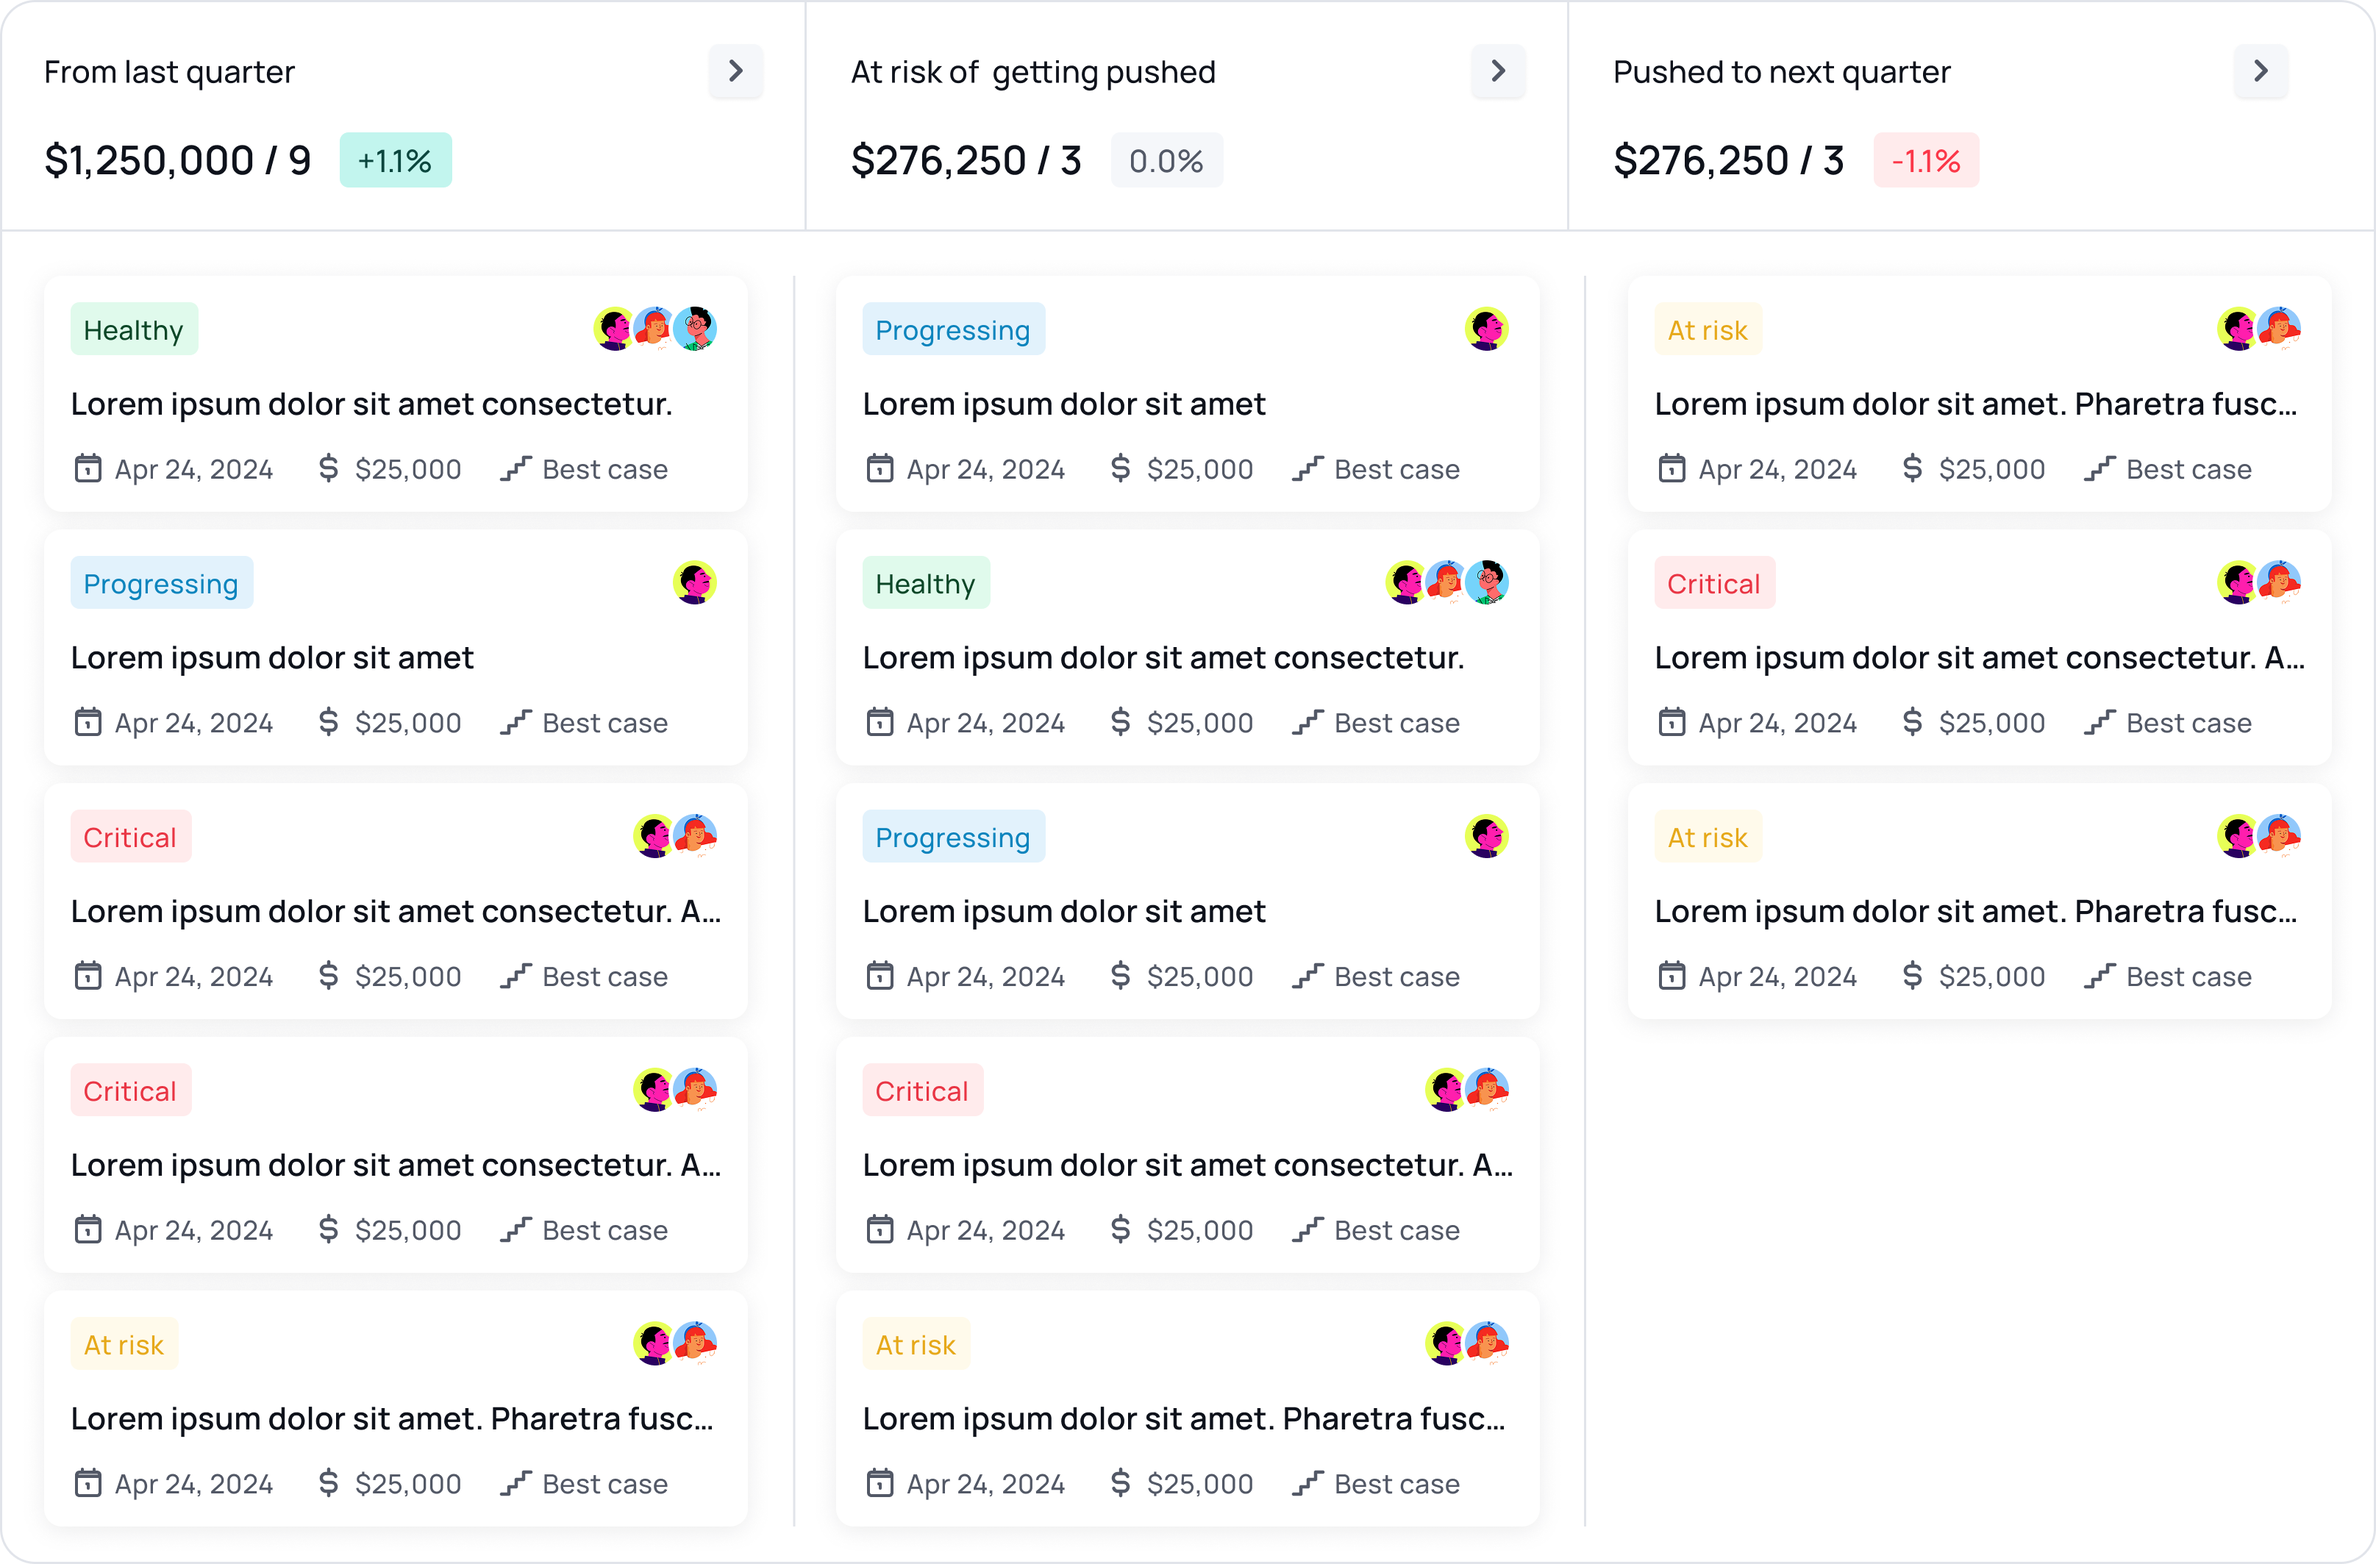
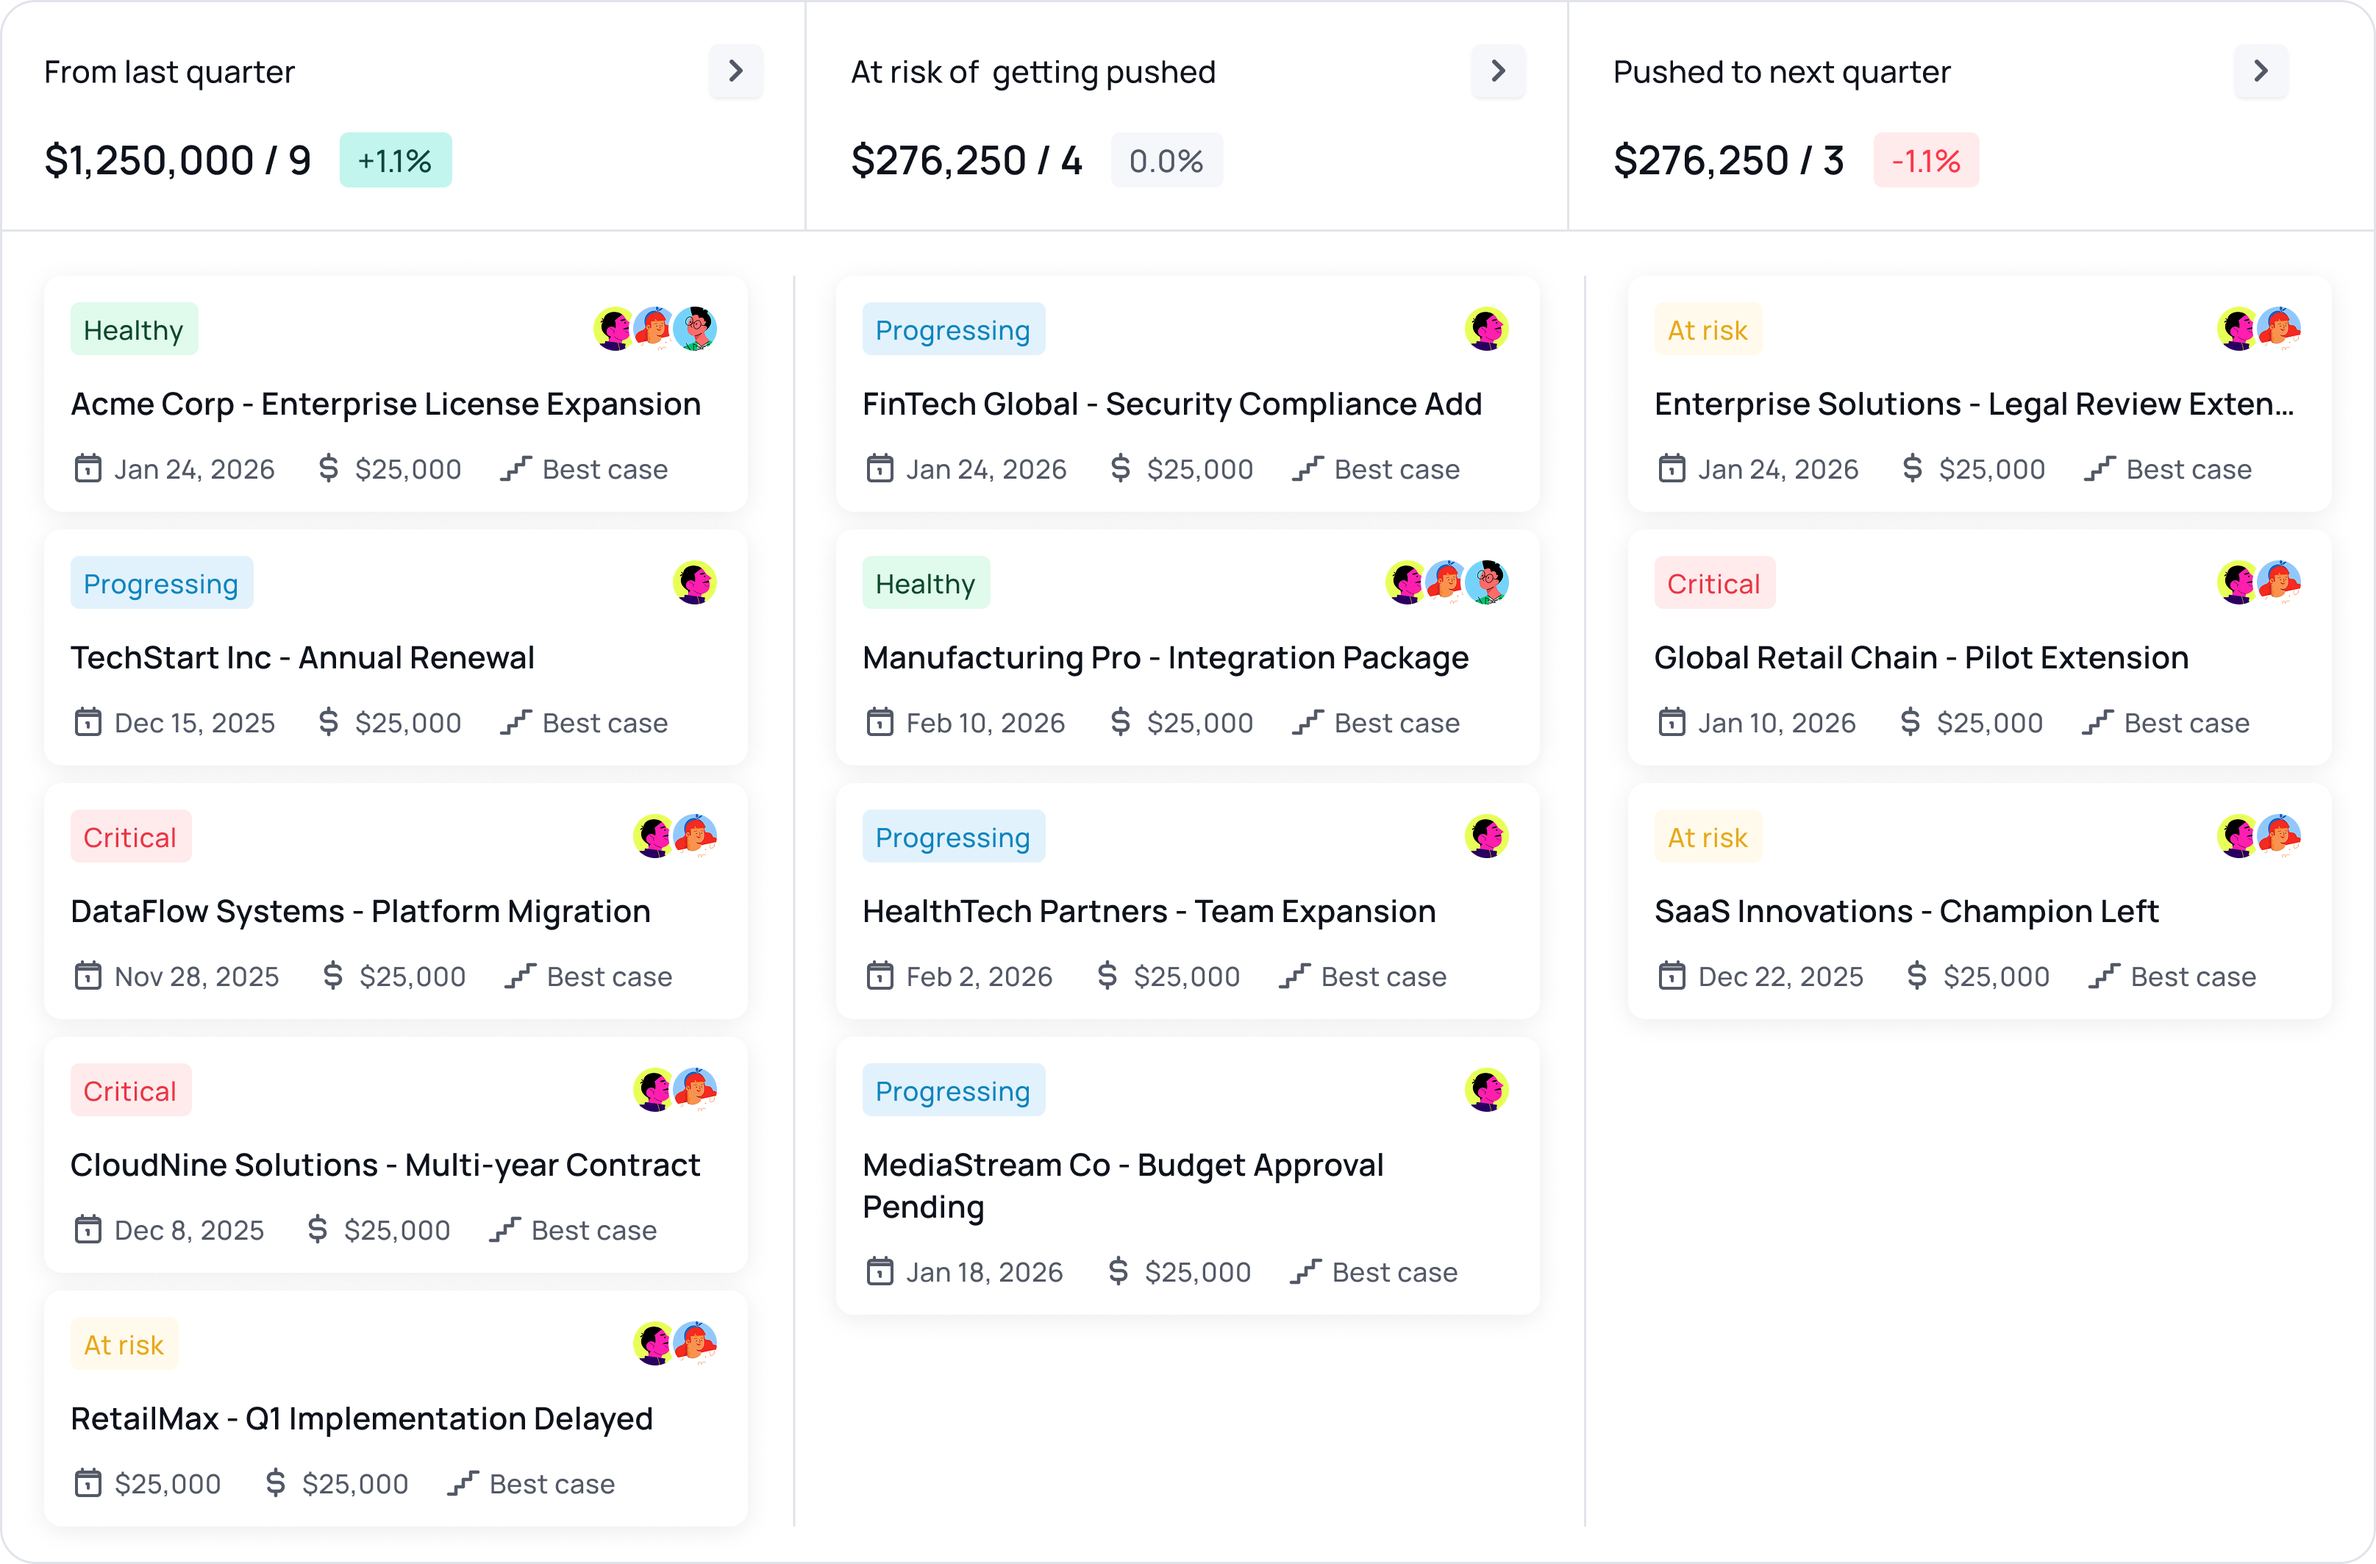
content updates

diff --git a/src/app/benefits/components/FeatureHero.tsx b/src/app/benefits/components/FeatureHero.tsx
@@ -1,0 +1,68 @@
+import { Badge } from '@/components/Badge';
+import { Container } from '@/components/Container';
+import { Screenshot, SCREENSHOT_PADDING } from '@/components/Screenshot';
+
+interface Feature {
+  name: string;
+  description: string;
+}
+
+interface FeatureHeroProps {
+  badgeText?: string;
+  heading: string;
+  description: string;
+  image: {
+    src: string;
+    alt: string;
+    width: number;
+    height: number;
+  };
+  features: Feature[];
+}
+
+export function FeatureHero({ badgeText, heading, description, image, features }: FeatureHeroProps) {
+  return (
+    <div className="bg-white">
+      <section aria-labelledby="features-heading" className="relative">
+        {/* Mobile padding wrapper to prevent Screenshot shadow from causing viewport overflow */}
+        <div className="px-2 lg:px-0">
+          {/* Outer container: controls page layout with fixed aspect ratios
+              Inner padding (py-2) accommodates Screenshot's decorative shadow that extends by SCREENSHOT_PADDING (spacing-2) */}
+          <div className="aspect-[3/2] w-full py-2 sm:aspect-[5/2] lg:absolute lg:aspect-auto lg:h-full lg:w-1/2 lg:py-0 lg:pr-4 xl:pr-16">
+            {/* Inner Screenshot: actual image dimensions from YAML, scales within container */}
+            <Screenshot
+              src={image.src}
+              width={image.width}
+              height={image.height}
+              cover={true}
+              className="h-full w-full"
+            />
+          </div>
+        </div>
+
+        <div className="mx-auto max-w-2xl px-4 pb-24 pt-16 sm:px-6 sm:pb-32 lg:grid lg:max-w-7xl lg:grid-cols-2 lg:gap-x-8 lg:px-8 lg:pt-32">
+          <div className="lg:col-start-2">
+            {badgeText && (
+              <div className="mb-4">
+                <Badge text={badgeText} />
+              </div>
+            )}
+            <h2 id="features-heading" className="text-4xl font-bold tracking-tight text-gray-900">
+              {heading}
+            </h2>
+            <p className="mt-4 text-gray-500">{description}</p>
+
+            <dl className="mt-10 grid grid-cols-1 gap-x-8 gap-y-10 text-sm sm:grid-cols-2">
+              {features.map((feature) => (
+                <div key={feature.name}>
+                  <dt className="font-medium text-gray-900">{feature.name}</dt>
+                  <dd className="mt-2 text-gray-500">{feature.description}</dd>
+                </div>
+              ))}
+            </dl>
+          </div>
+        </div>
+      </section>
+    </div>
+  );
+}

diff --git a/src/app/benefits/[slug]/page.tsx b/src/app/benefits/[slug]/page.tsx
@@ -1,4 +1,5 @@
 import { BenefitHero } from '../components/BenefitHero';
+import { FeatureHero } from '../components/FeatureHero';
 import { StatsShowcase } from '@/components/StatsShowcase';
 import { BenefitFeatures } from '../components/BenefitFeatures';
 import { ProcessWorkflow } from '@/components/ProcessWorkflow';
@@ -80,6 +81,7 @@ export default async function BenefitGroupPage({ params }: BenefitGroupPageProps
       <Container>
         <Breadcrumb items={breadcrumbItems} className="py-4" />
       </Container>
+      {content.featureHero && <FeatureHero {...content.featureHero} />}
       <BenefitHero hero={content.hero} problems={content.problems} />
       <BenefitFeatures {...content.features} />
       <StatsShowcase {...content.stats} />

diff --git a/src/lib/content/types.ts b/src/lib/content/types.ts
@@ -663,9 +663,26 @@ export interface BenefitGroupMetadata {
   image?: string;
 }
 
+export interface BenefitGroupFeatureHero {
+  badgeText?: string;
+  heading: string;
+  description: string;
+  image: {
+    src: string;
+    alt: string;
+    width: number;
+    height: number;
+  };
+  features: Array<{
+    name: string;
+    description: string;
+  }>;
+}
+
 export interface BenefitGroupContent {
   metadata?: BenefitGroupMetadata;
   hero: BenefitGroupHero;
+  featureHero?: BenefitGroupFeatureHero;
   problems: BenefitGroupProblems;
   stats: BenefitGroupStats;
   features: BenefitGroupFeatures;

diff --git a/src/components/Screenshot.tsx b/src/components/Screenshot.tsx
@@ -1,5 +1,13 @@
 import { clsx } from 'clsx';
 
+/**
+ * Screenshot component spacing constants.
+ * The decorative shadow/ring extends outside the component bounds by this amount.
+ * When using Screenshot in a constrained container, add padding equal to this value
+ * to prevent overflow.
+ */
+export const SCREENSHOT_PADDING = 2; // spacing units (0.5rem = 8px in Tailwind)
+
 export function Screenshot({
   width,
   height,
